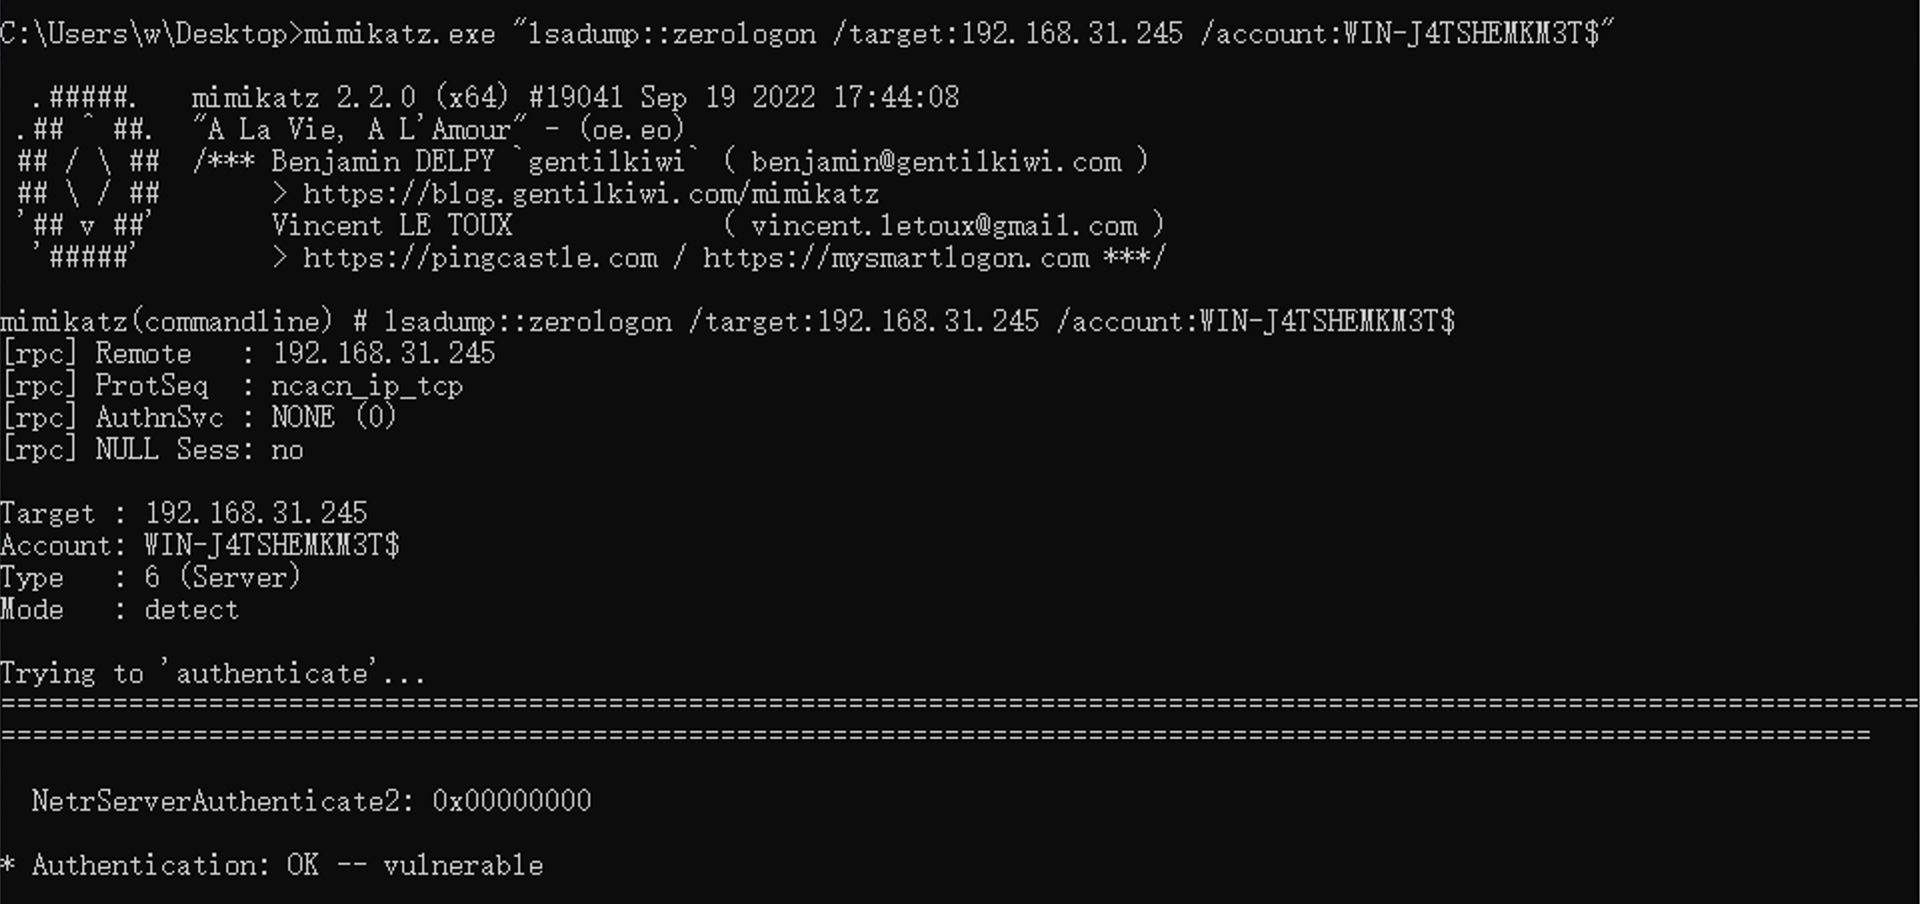
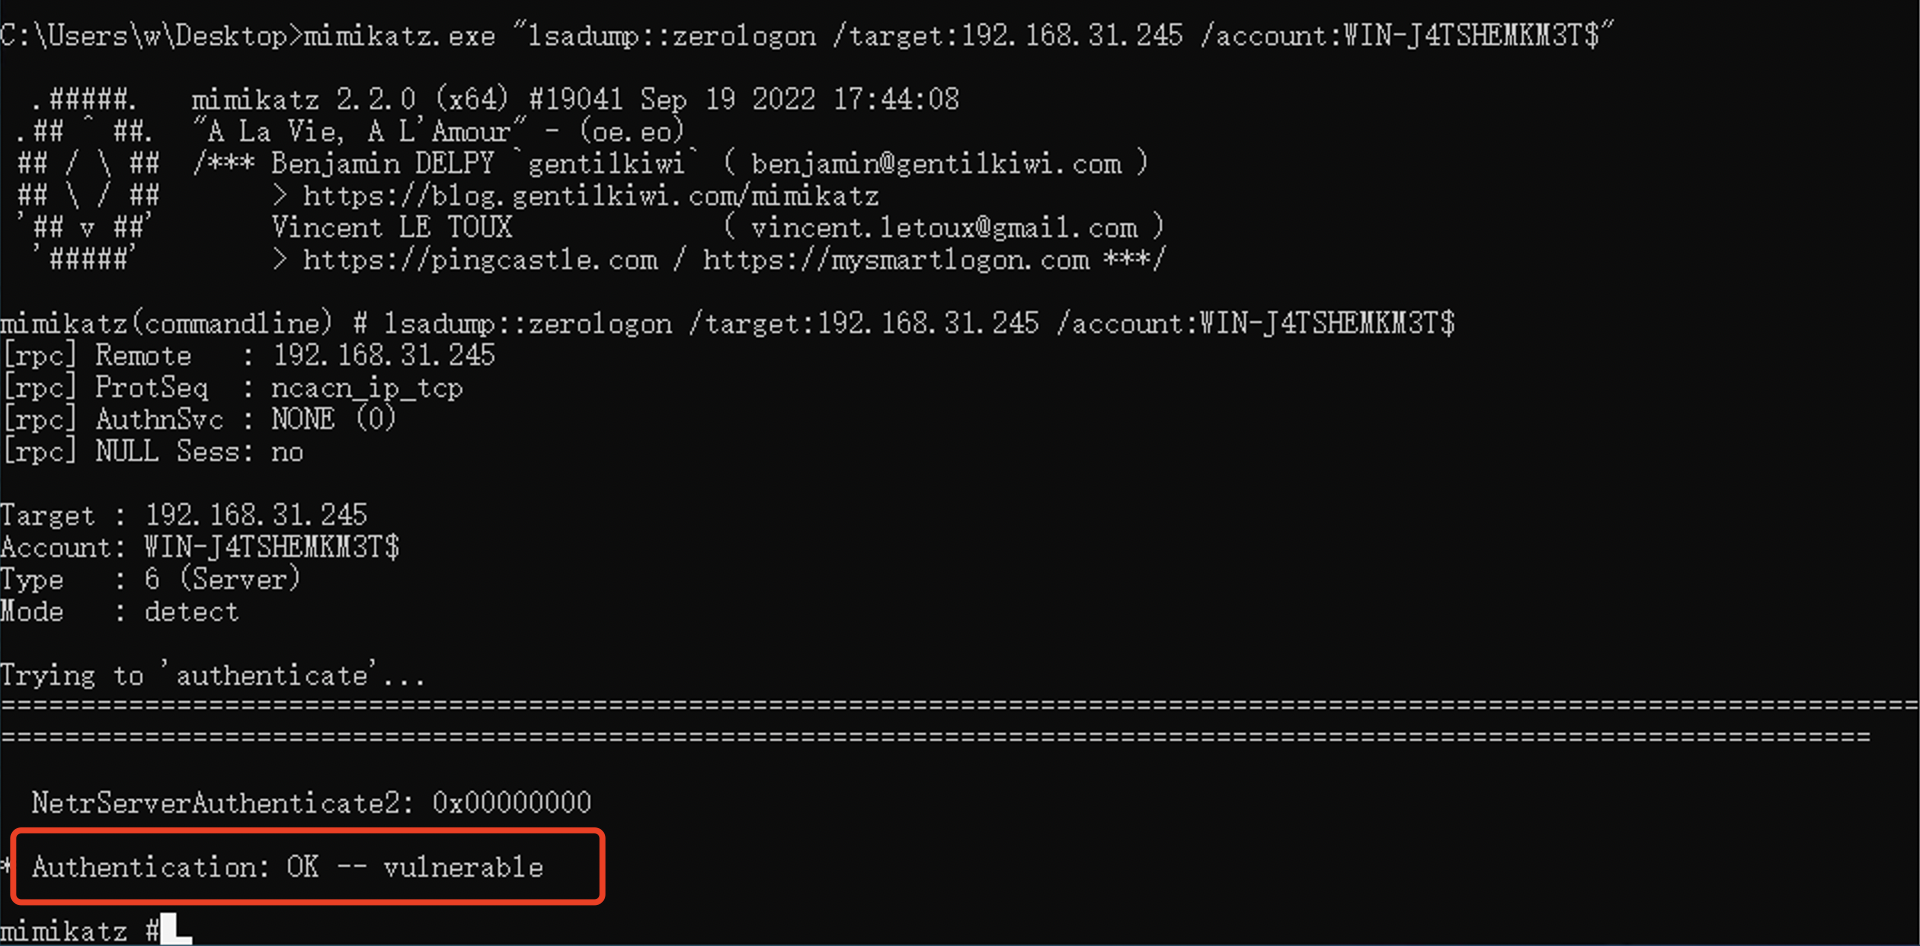
Site updated: 2022-12-25 11:39:44

Changed region(s): [[0.0, 0.0929, 1.0, 1.0], [0.75, 0.0, 0.8438, 0.031], [0.0312, 0.031, 0.0625, 0.0619]]

diff --git a/index.html b/index.html
@@ -93,17 +93,20 @@
     
     <div class="e-content article-entry" itemprop="articleBody">
       
-        <h2 id="环境"><a href="#环境" class="headerlink" title="环境"></a>环境</h2><p>我本地有个服务器，用的pve起了个虚拟化平台，你可以自己用虚拟机软件自己搭建一下环境，以下IP都是虚拟的，实际IP自己定。<br>小域控结构，比较简单，主要用来演示：<br><img src="https://dhayser.github.io/2022/12/23/CVE-2020-1472%E5%A4%8D%E7%8E%B0%E5%88%86%E6%9E%90/1.png"><br>&#x2F;&#x2F; 搭建域环境过程的小tips</p>
+        <h2 id="一、环境"><a href="#一、环境" class="headerlink" title="一、环境"></a>一、环境</h2><p>我本地有个服务器，用的pve起了个虚拟化平台，你可以自己用虚拟机软件自己搭建一下环境，以下IP都是虚拟的，实际IP自己定。<br>小域控结构，比较简单，主要用来演示：<br><img src="https://dhayser.github.io/2022/12/23/CVE-2020-1472%E5%A4%8D%E7%8E%B0%E5%88%86%E6%9E%90/1.png"><br>&#x2F;&#x2F; 搭建域环境过程的小tips</p>
 <ul>
 <li>域内成员要与AD域控的445端口通讯；</li>
 <li>DNS服务器要设置成你建立的用于域控与域成员通讯的DNS，我这里用的是直接把AD域控也用作DNS服务器；</li>
 </ul>
-<h3 id="POC漏洞验证"><a href="#POC漏洞验证" class="headerlink" title="POC漏洞验证"></a>POC漏洞验证</h3><p>在域成员中执行以下命令，这里是借用的mimikatz自带的zerologon进行验证测试。</p>
+<h2 id="二、POC漏洞验证-mimikatz-exe"><a href="#二、POC漏洞验证-mimikatz-exe" class="headerlink" title="二、POC漏洞验证-mimikatz.exe"></a>二、POC漏洞验证-mimikatz.exe</h2><p>在域成员中执行以下命令，这里是借用的mimikatz自带的zerologon进行验证测试。</p>
 <figure class="highlight dos"><table><tr><td class="gutter"><pre><span class="line">1</span><br></pre></td><td class="code"><pre><span class="line">mimikatz.exe &quot;lsadump::zerologon /target:<span class="number">192</span>.<span class="number">168</span>.<span class="number">31</span>.<span class="number">245</span> /account:WIN-J4TSHEMKM3T$&quot;</span><br></pre></td></tr></table></figure>
+<p>存在漏洞效果：<br><img src="https://dhayser.github.io/2022/12/23/CVE-2020-1472%E5%A4%8D%E7%8E%B0%E5%88%86%E6%9E%90/2.png"></p>
+<h2 id="三、EXP漏洞利用-py脚本"><a href="#三、EXP漏洞利用-py脚本" class="headerlink" title="三、EXP漏洞利用-py脚本"></a>三、EXP漏洞利用-py脚本</h2><p>建议创建虚拟环境env，可以参考其他<a target="_blank" rel="noopener" href="https://blog.csdn.net/ARPOSPF/article/details/113616988">博客链接</a>，后续我想找官网教程的时候我再更新，🐑之后真的无力气。</p>
+
       
     </div>
     <footer class="article-footer">
-      <a data-url="https://dhayser.github.io/2022/12/23/CVE-2020-1472%E5%A4%8D%E7%8E%B0%E5%88%86%E6%9E%90/" data-id="clc0n44q60003r8hfcjv9f0ny" data-title="CVE-2020-1472复现分析" class="article-share-link">Share</a>
+      <a data-url="https://dhayser.github.io/2022/12/23/CVE-2020-1472%E5%A4%8D%E7%8E%B0%E5%88%86%E6%9E%90/" data-id="clc2tnrgr0002t0hfc9xq867o" data-title="CVE-2020-1472复现分析" class="article-share-link">Share</a>
       
       
       
@@ -150,7 +153,7 @@
       
     </div>
     <footer class="article-footer">
-      <a data-url="https://dhayser.github.io/2022/12/23/Bluetooth%E6%8A%93%E5%8C%85%E5%88%86%E6%9E%90%E5%88%9D%E8%AF%86/" data-id="clc0n44q50001r8hf3mnj8300" data-title="Bluetooth抓包分析初识" class="article-share-link">Share</a>
+      <a data-url="https://dhayser.github.io/2022/12/23/Bluetooth%E6%8A%93%E5%8C%85%E5%88%86%E6%9E%90%E5%88%9D%E8%AF%86/" data-id="clc2tnrgo0000t0hf6zb68q3k" data-title="Bluetooth抓包分析初识" class="article-share-link">Share</a>
       
       
       
@@ -202,7 +205,7 @@
       
     </div>
     <footer class="article-footer">
-      <a data-url="https://dhayser.github.io/2022/12/07/webpack%E5%89%8D%E7%AB%AF%E6%BA%90%E7%A0%81%E8%BF%98%E5%8E%9F%E6%BC%8F%E6%B4%9E/" data-id="clc0n44q70006r8hfe09e9qq2" data-title="webpack前端源码还原漏洞" class="article-share-link">Share</a>
+      <a data-url="https://dhayser.github.io/2022/12/07/webpack%E5%89%8D%E7%AB%AF%E6%BA%90%E7%A0%81%E8%BF%98%E5%8E%9F%E6%BC%8F%E6%B4%9E/" data-id="clc2tnrgt0008t0hfdoik57mk" data-title="webpack前端源码还原漏洞" class="article-share-link">Share</a>
       
       
       
@@ -243,7 +246,7 @@
       
     </div>
     <footer class="article-footer">
-      <a data-url="https://dhayser.github.io/2022/11/30/%E5%86%85%E5%AD%98%E5%8F%96%E8%AF%81%E5%88%9D%E8%AF%86%EF%BC%88%E4%B8%80%EF%BC%89/" data-id="clc0n44q70007r8hf2uib8kun" data-title="内存取证初识（一）" class="article-share-link">Share</a>
+      <a data-url="https://dhayser.github.io/2022/11/30/%E5%86%85%E5%AD%98%E5%8F%96%E8%AF%81%E5%88%9D%E8%AF%86%EF%BC%88%E4%B8%80%EF%BC%89/" data-id="clc2tnrgt0007t0hfcoclgmqu" data-title="内存取证初识（一）" class="article-share-link">Share</a>
       
       
       
@@ -301,7 +304,7 @@
       
     </div>
     <footer class="article-footer">
-      <a data-url="https://dhayser.github.io/2022/11/26/BeanShell%E4%BB%BB%E6%84%8F%E5%91%BD%E4%BB%A4%E6%89%A7%E8%A1%8C/" data-id="clc0n44q30000r8hfhficbly6" data-title="BeanShell任意命令执行" class="article-share-link">Share</a>
+      <a data-url="https://dhayser.github.io/2022/11/26/BeanShell%E4%BB%BB%E6%84%8F%E5%91%BD%E4%BB%A4%E6%89%A7%E8%A1%8C/" data-id="clc2tnrgq0001t0hf03yw2pas" data-title="BeanShell任意命令执行" class="article-share-link">Share</a>
       
       
       
@@ -359,7 +362,7 @@
       
     </div>
     <footer class="article-footer">
-      <a data-url="https://dhayser.github.io/2022/11/24/Weblogic%E5%86%85%E7%BD%91%E6%B8%97%E9%80%8Ftips/" data-id="clc0n44q70005r8hfaxhucg7q" data-title="Weblogic内网渗透tips" class="article-share-link">Share</a>
+      <a data-url="https://dhayser.github.io/2022/11/24/Weblogic%E5%86%85%E7%BD%91%E6%B8%97%E9%80%8Ftips/" data-id="clc2tnrgs0004t0hfh3sm1chh" data-title="Weblogic内网渗透tips" class="article-share-link">Share</a>
       
       
       
@@ -405,7 +408,7 @@
       
     </div>
     <footer class="article-footer">
-      <a data-url="https://dhayser.github.io/2022/11/22/BurpSuite%E6%8F%92%E4%BB%B6%E5%BC%80%E5%8F%91/" data-id="clc0n44q60002r8hfam9o3b10" data-title="BurpSuite插件开发" class="article-share-link">Share</a>
+      <a data-url="https://dhayser.github.io/2022/11/22/BurpSuite%E6%8F%92%E4%BB%B6%E5%BC%80%E5%8F%91/" data-id="clc2tnrgs0006t0hf90h46rsi" data-title="BurpSuite插件开发" class="article-share-link">Share</a>
       
       
       
@@ -507,7 +510,7 @@
       
     </div>
     <footer class="article-footer">
-      <a data-url="https://dhayser.github.io/2022/11/15/Fastjson%E5%8F%8D%E5%BA%8F%E5%88%97%E5%8C%96%E6%BC%8F%E6%B4%9E%E5%8E%9F%E7%90%86%E5%8F%8A%E6%A3%80%E6%B5%8B%E5%88%A9%E7%94%A8/" data-id="clc0n44q70004r8hffa1ob4lw" data-title="Fastjson反序列化漏洞原理及检测利用" class="article-share-link">Share</a>
+      <a data-url="https://dhayser.github.io/2022/11/15/Fastjson%E5%8F%8D%E5%BA%8F%E5%88%97%E5%8C%96%E6%BC%8F%E6%B4%9E%E5%8E%9F%E7%90%86%E5%8F%8A%E6%A3%80%E6%B5%8B%E5%88%A9%E7%94%A8/" data-id="clc2tnrgs0003t0hf568c69vg" data-title="Fastjson反序列化漏洞原理及检测利用" class="article-share-link">Share</a>
       
       
       
@@ -547,7 +550,7 @@
       
     </div>
     <footer class="article-footer">
-      <a data-url="https://dhayser.github.io/2022/11/11/%E9%9D%9E%E6%8E%88%E6%9D%83%E8%AE%BF%E9%97%AE/" data-id="clc0n44q9000ar8hf4khvhn7w" data-title="非授权访问漏洞" class="article-share-link">Share</a>
+      <a data-url="https://dhayser.github.io/2022/11/11/%E9%9D%9E%E6%8E%88%E6%9D%83%E8%AE%BF%E9%97%AE/" data-id="clc2tnrgu000at0hfgkcjaomc" data-title="非授权访问漏洞" class="article-share-link">Share</a>
       
       
       
@@ -588,7 +591,7 @@
       
     </div>
     <footer class="article-footer">
-      <a data-url="https://dhayser.github.io/2022/11/08/%E8%AE%BE%E5%A4%87%E7%BC%BA%E7%9C%81%E5%8F%A3%E4%BB%A4/" data-id="clc0n44q80008r8hf3cwpazec" data-title="设备缺省口令" class="article-share-link">Share</a>
+      <a data-url="https://dhayser.github.io/2022/11/08/%E8%AE%BE%E5%A4%87%E7%BC%BA%E7%9C%81%E5%8F%A3%E4%BB%A4/" data-id="clc2tnrgu0009t0hfh9ceh96p" data-title="设备缺省口令" class="article-share-link">Share</a>
       
       
       

diff --git a/2022/12/23/CVE-2020-1472复现分析/index.html b/2022/12/23/CVE-2020-1472复现分析/index.html
@@ -6,16 +6,17 @@
   
   <title>CVE-2020-1472复现分析 | Dhayser&#39;s space</title>
   <meta name="viewport" content="width=device-width, initial-scale=1, shrink-to-fit=no">
-  <meta name="description" content="环境我本地有个服务器，用的pve起了个虚拟化平台，你可以自己用虚拟机软件自己搭建一下环境，以下IP都是虚拟的，实际IP自己定。小域控结构，比较简单，主要用来演示：&#x2F;&#x2F; 搭建域环境过程的小tips  域内成员要与AD域控的445端口通讯； DNS服务器要设置成你建立的用于域控与域成员通讯的DNS，我这里用的是直接把AD域控也用作DNS服务器；  POC漏洞验证在域成员中执行以下命">
+  <meta name="description" content="一、环境我本地有个服务器，用的pve起了个虚拟化平台，你可以自己用虚拟机软件自己搭建一下环境，以下IP都是虚拟的，实际IP自己定。小域控结构，比较简单，主要用来演示：&#x2F;&#x2F; 搭建域环境过程的小tips  域内成员要与AD域控的445端口通讯； DNS服务器要设置成你建立的用于域控与域成员通讯的DNS，我这里用的是直接把AD域控也用作DNS服务器；  二、POC漏洞验证-mimik">
 <meta property="og:type" content="article">
 <meta property="og:title" content="CVE-2020-1472复现分析">
 <meta property="og:url" content="https://dhayser.github.io/2022/12/23/CVE-2020-1472%E5%A4%8D%E7%8E%B0%E5%88%86%E6%9E%90/index.html">
 <meta property="og:site_name" content="Dhayser&#39;s space">
-<meta property="og:description" content="环境我本地有个服务器，用的pve起了个虚拟化平台，你可以自己用虚拟机软件自己搭建一下环境，以下IP都是虚拟的，实际IP自己定。小域控结构，比较简单，主要用来演示：&#x2F;&#x2F; 搭建域环境过程的小tips  域内成员要与AD域控的445端口通讯； DNS服务器要设置成你建立的用于域控与域成员通讯的DNS，我这里用的是直接把AD域控也用作DNS服务器；  POC漏洞验证在域成员中执行以下命">
+<meta property="og:description" content="一、环境我本地有个服务器，用的pve起了个虚拟化平台，你可以自己用虚拟机软件自己搭建一下环境，以下IP都是虚拟的，实际IP自己定。小域控结构，比较简单，主要用来演示：&#x2F;&#x2F; 搭建域环境过程的小tips  域内成员要与AD域控的445端口通讯； DNS服务器要设置成你建立的用于域控与域成员通讯的DNS，我这里用的是直接把AD域控也用作DNS服务器；  二、POC漏洞验证-mimik">
 <meta property="og:locale" content="en_US">
 <meta property="og:image" content="https://dhayser.github.io/2022/12/23/CVE-2020-1472%E5%A4%8D%E7%8E%B0%E5%88%86%E6%9E%90/1.png">
+<meta property="og:image" content="https://dhayser.github.io/2022/12/23/CVE-2020-1472%E5%A4%8D%E7%8E%B0%E5%88%86%E6%9E%90/2.png">
 <meta property="article:published_time" content="2022-12-23T14:44:07.000Z">
-<meta property="article:modified_time" content="2022-12-23T15:00:08.917Z">
+<meta property="article:modified_time" content="2022-12-25T03:39:39.599Z">
 <meta property="article:author" content="Dhayser Li">
 <meta name="twitter:card" content="summary">
 <meta name="twitter:image" content="https://dhayser.github.io/2022/12/23/CVE-2020-1472%E5%A4%8D%E7%8E%B0%E5%88%86%E6%9E%90/1.png">
@@ -97,17 +98,20 @@
     
     <div class="e-content article-entry" itemprop="articleBody">
       
-        <h2 id="环境"><a href="#环境" class="headerlink" title="环境"></a>环境</h2><p>我本地有个服务器，用的pve起了个虚拟化平台，你可以自己用虚拟机软件自己搭建一下环境，以下IP都是虚拟的，实际IP自己定。<br>小域控结构，比较简单，主要用来演示：<br><img src="https://dhayser.github.io/2022/12/23/CVE-2020-1472%E5%A4%8D%E7%8E%B0%E5%88%86%E6%9E%90/1.png"><br>&#x2F;&#x2F; 搭建域环境过程的小tips</p>
+        <h2 id="一、环境"><a href="#一、环境" class="headerlink" title="一、环境"></a>一、环境</h2><p>我本地有个服务器，用的pve起了个虚拟化平台，你可以自己用虚拟机软件自己搭建一下环境，以下IP都是虚拟的，实际IP自己定。<br>小域控结构，比较简单，主要用来演示：<br><img src="https://dhayser.github.io/2022/12/23/CVE-2020-1472%E5%A4%8D%E7%8E%B0%E5%88%86%E6%9E%90/1.png"><br>&#x2F;&#x2F; 搭建域环境过程的小tips</p>
 <ul>
 <li>域内成员要与AD域控的445端口通讯；</li>
 <li>DNS服务器要设置成你建立的用于域控与域成员通讯的DNS，我这里用的是直接把AD域控也用作DNS服务器；</li>
 </ul>
-<h3 id="POC漏洞验证"><a href="#POC漏洞验证" class="headerlink" title="POC漏洞验证"></a>POC漏洞验证</h3><p>在域成员中执行以下命令，这里是借用的mimikatz自带的zerologon进行验证测试。</p>
+<h2 id="二、POC漏洞验证-mimikatz-exe"><a href="#二、POC漏洞验证-mimikatz-exe" class="headerlink" title="二、POC漏洞验证-mimikatz.exe"></a>二、POC漏洞验证-mimikatz.exe</h2><p>在域成员中执行以下命令，这里是借用的mimikatz自带的zerologon进行验证测试。</p>
 <figure class="highlight dos"><table><tr><td class="gutter"><pre><span class="line">1</span><br></pre></td><td class="code"><pre><span class="line">mimikatz.exe &quot;lsadump::zerologon /target:<span class="number">192</span>.<span class="number">168</span>.<span class="number">31</span>.<span class="number">245</span> /account:WIN-J4TSHEMKM3T$&quot;</span><br></pre></td></tr></table></figure>
+<p>存在漏洞效果：<br><img src="https://dhayser.github.io/2022/12/23/CVE-2020-1472%E5%A4%8D%E7%8E%B0%E5%88%86%E6%9E%90/2.png"></p>
+<h2 id="三、EXP漏洞利用-py脚本"><a href="#三、EXP漏洞利用-py脚本" class="headerlink" title="三、EXP漏洞利用-py脚本"></a>三、EXP漏洞利用-py脚本</h2><p>建议创建虚拟环境env，可以参考其他<a target="_blank" rel="noopener" href="https://blog.csdn.net/ARPOSPF/article/details/113616988">博客链接</a>，后续我想找官网教程的时候我再更新，🐑之后真的无力气。</p>
+
       
     </div>
     <footer class="article-footer">
-      <a data-url="https://dhayser.github.io/2022/12/23/CVE-2020-1472%E5%A4%8D%E7%8E%B0%E5%88%86%E6%9E%90/" data-id="clc0n44q60003r8hfcjv9f0ny" data-title="CVE-2020-1472复现分析" class="article-share-link">Share</a>
+      <a data-url="https://dhayser.github.io/2022/12/23/CVE-2020-1472%E5%A4%8D%E7%8E%B0%E5%88%86%E6%9E%90/" data-id="clc2tnrgr0002t0hfc9xq867o" data-title="CVE-2020-1472复现分析" class="article-share-link">Share</a>
       
       
       

diff --git a/2022/11/15/Fastjson反序列化漏洞原理及检测利用/index.html b/2022/11/15/Fastjson反序列化漏洞原理及检测利用/index.html
@@ -173,7 +173,7 @@
       
     </div>
     <footer class="article-footer">
-      <a data-url="https://dhayser.github.io/2022/11/15/Fastjson%E5%8F%8D%E5%BA%8F%E5%88%97%E5%8C%96%E6%BC%8F%E6%B4%9E%E5%8E%9F%E7%90%86%E5%8F%8A%E6%A3%80%E6%B5%8B%E5%88%A9%E7%94%A8/" data-id="clc0n44q70004r8hffa1ob4lw" data-title="Fastjson反序列化漏洞原理及检测利用" class="article-share-link">Share</a>
+      <a data-url="https://dhayser.github.io/2022/11/15/Fastjson%E5%8F%8D%E5%BA%8F%E5%88%97%E5%8C%96%E6%BC%8F%E6%B4%9E%E5%8E%9F%E7%90%86%E5%8F%8A%E6%A3%80%E6%B5%8B%E5%88%A9%E7%94%A8/" data-id="clc2tnrgs0003t0hf568c69vg" data-title="Fastjson反序列化漏洞原理及检测利用" class="article-share-link">Share</a>
       
       
       

diff --git a/2022/12/07/webpack前端源码还原漏洞/index.html b/2022/12/07/webpack前端源码还原漏洞/index.html
@@ -120,7 +120,7 @@
       
     </div>
     <footer class="article-footer">
-      <a data-url="https://dhayser.github.io/2022/12/07/webpack%E5%89%8D%E7%AB%AF%E6%BA%90%E7%A0%81%E8%BF%98%E5%8E%9F%E6%BC%8F%E6%B4%9E/" data-id="clc0n44q70006r8hfe09e9qq2" data-title="webpack前端源码还原漏洞" class="article-share-link">Share</a>
+      <a data-url="https://dhayser.github.io/2022/12/07/webpack%E5%89%8D%E7%AB%AF%E6%BA%90%E7%A0%81%E8%BF%98%E5%8E%9F%E6%BC%8F%E6%B4%9E/" data-id="clc2tnrgt0008t0hfdoik57mk" data-title="webpack前端源码还原漏洞" class="article-share-link">Share</a>
       
       
       

diff --git a/2022/11/30/内存取证初识（一）/index.html b/2022/11/30/内存取证初识（一）/index.html
@@ -102,7 +102,7 @@
       
     </div>
     <footer class="article-footer">
-      <a data-url="https://dhayser.github.io/2022/11/30/%E5%86%85%E5%AD%98%E5%8F%96%E8%AF%81%E5%88%9D%E8%AF%86%EF%BC%88%E4%B8%80%EF%BC%89/" data-id="clc0n44q70007r8hf2uib8kun" data-title="内存取证初识（一）" class="article-share-link">Share</a>
+      <a data-url="https://dhayser.github.io/2022/11/30/%E5%86%85%E5%AD%98%E5%8F%96%E8%AF%81%E5%88%9D%E8%AF%86%EF%BC%88%E4%B8%80%EF%BC%89/" data-id="clc2tnrgt0007t0hfcoclgmqu" data-title="内存取证初识（一）" class="article-share-link">Share</a>
       
       
       

diff --git a/2022/11/06/curl工具连接webshell调试/index.html b/2022/11/06/curl工具连接webshell调试/index.html
@@ -109,7 +109,7 @@
       
     </div>
     <footer class="article-footer">
-      <a data-url="https://dhayser.github.io/2022/11/06/curl%E5%B7%A5%E5%85%B7%E8%BF%9E%E6%8E%A5webshell%E8%B0%83%E8%AF%95/" data-id="clc0n44q90009r8hf5ja6abyc" data-title="curl工具连接webshell调试" class="article-share-link">Share</a>
+      <a data-url="https://dhayser.github.io/2022/11/06/curl%E5%B7%A5%E5%85%B7%E8%BF%9E%E6%8E%A5webshell%E8%B0%83%E8%AF%95/" data-id="clc2tnrgs0005t0hfhvdr68nx" data-title="curl工具连接webshell调试" class="article-share-link">Share</a>
       
       
       

diff --git a/page/2/index.html b/page/2/index.html
@@ -107,7 +107,7 @@
       
     </div>
     <footer class="article-footer">
-      <a data-url="https://dhayser.github.io/2022/11/06/curl%E5%B7%A5%E5%85%B7%E8%BF%9E%E6%8E%A5webshell%E8%B0%83%E8%AF%95/" data-id="clc0n44q90009r8hf5ja6abyc" data-title="curl工具连接webshell调试" class="article-share-link">Share</a>
+      <a data-url="https://dhayser.github.io/2022/11/06/curl%E5%B7%A5%E5%85%B7%E8%BF%9E%E6%8E%A5webshell%E8%B0%83%E8%AF%95/" data-id="clc2tnrgs0005t0hfhvdr68nx" data-title="curl工具连接webshell调试" class="article-share-link">Share</a>
       
       
       

diff --git a/2022/11/26/BeanShell任意命令执行/index.html b/2022/11/26/BeanShell任意命令执行/index.html
@@ -125,7 +125,7 @@
       
     </div>
     <footer class="article-footer">
-      <a data-url="https://dhayser.github.io/2022/11/26/BeanShell%E4%BB%BB%E6%84%8F%E5%91%BD%E4%BB%A4%E6%89%A7%E8%A1%8C/" data-id="clc0n44q30000r8hfhficbly6" data-title="BeanShell任意命令执行" class="article-share-link">Share</a>
+      <a data-url="https://dhayser.github.io/2022/11/26/BeanShell%E4%BB%BB%E6%84%8F%E5%91%BD%E4%BB%A4%E6%89%A7%E8%A1%8C/" data-id="clc2tnrgq0001t0hf03yw2pas" data-title="BeanShell任意命令执行" class="article-share-link">Share</a>
       
       
       

diff --git a/2022/12/23/Bluetooth抓包分析初识/index.html b/2022/12/23/Bluetooth抓包分析初识/index.html
@@ -112,7 +112,7 @@
       
     </div>
     <footer class="article-footer">
-      <a data-url="https://dhayser.github.io/2022/12/23/Bluetooth%E6%8A%93%E5%8C%85%E5%88%86%E6%9E%90%E5%88%9D%E8%AF%86/" data-id="clc0n44q50001r8hf3mnj8300" data-title="Bluetooth抓包分析初识" class="article-share-link">Share</a>
+      <a data-url="https://dhayser.github.io/2022/12/23/Bluetooth%E6%8A%93%E5%8C%85%E5%88%86%E6%9E%90%E5%88%9D%E8%AF%86/" data-id="clc2tnrgo0000t0hf6zb68q3k" data-title="Bluetooth抓包分析初识" class="article-share-link">Share</a>
       
       
       

diff --git a/2022/11/08/设备缺省口令/index.html b/2022/11/08/设备缺省口令/index.html
@@ -102,7 +102,7 @@
       
     </div>
     <footer class="article-footer">
-      <a data-url="https://dhayser.github.io/2022/11/08/%E8%AE%BE%E5%A4%87%E7%BC%BA%E7%9C%81%E5%8F%A3%E4%BB%A4/" data-id="clc0n44q80008r8hf3cwpazec" data-title="设备缺省口令" class="article-share-link">Share</a>
+      <a data-url="https://dhayser.github.io/2022/11/08/%E8%AE%BE%E5%A4%87%E7%BC%BA%E7%9C%81%E5%8F%A3%E4%BB%A4/" data-id="clc2tnrgu0009t0hfh9ceh96p" data-title="设备缺省口令" class="article-share-link">Share</a>
       
       
       

diff --git a/2022/11/24/Weblogic内网渗透tips/index.html b/2022/11/24/Weblogic内网渗透tips/index.html
@@ -119,7 +119,7 @@
       
     </div>
     <footer class="article-footer">
-      <a data-url="https://dhayser.github.io/2022/11/24/Weblogic%E5%86%85%E7%BD%91%E6%B8%97%E9%80%8Ftips/" data-id="clc0n44q70005r8hfaxhucg7q" data-title="Weblogic内网渗透tips" class="article-share-link">Share</a>
+      <a data-url="https://dhayser.github.io/2022/11/24/Weblogic%E5%86%85%E7%BD%91%E6%B8%97%E9%80%8Ftips/" data-id="clc2tnrgs0004t0hfh3sm1chh" data-title="Weblogic内网渗透tips" class="article-share-link">Share</a>
       
       
       

diff --git a/2022/11/11/非授权访问/index.html b/2022/11/11/非授权访问/index.html
@@ -101,7 +101,7 @@
       
     </div>
     <footer class="article-footer">
-      <a data-url="https://dhayser.github.io/2022/11/11/%E9%9D%9E%E6%8E%88%E6%9D%83%E8%AE%BF%E9%97%AE/" data-id="clc0n44q9000ar8hf4khvhn7w" data-title="非授权访问漏洞" class="article-share-link">Share</a>
+      <a data-url="https://dhayser.github.io/2022/11/11/%E9%9D%9E%E6%8E%88%E6%9D%83%E8%AE%BF%E9%97%AE/" data-id="clc2tnrgu000at0hfgkcjaomc" data-title="非授权访问漏洞" class="article-share-link">Share</a>
       
       
       
